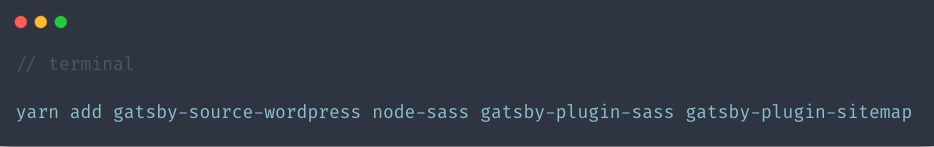
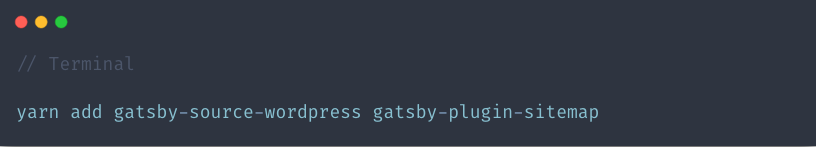
BLOG-027 Added third blog post

Changed region(s): [[0.0, 0.7075, 0.9804, 0.8435], [0.0, 0.381, 0.1532, 0.4898], [0.0, 0.1088, 0.0919, 0.1905]]

diff --git a/src/posts/how-to-build-a-blog-with-wordpress-and-gatsby-part-3/index.md b/src/posts/how-to-build-a-blog-with-wordpress-and-gatsby-part-3/index.md
@@ -1,0 +1,138 @@
+---
+title: 'How To Build A Blog with Wordpress and Gatsby.js - Part 3'
+date: '2019-04-02'
+tags: '#reactjs #wordpress'
+featured_image: ./featured_image.jpg
+keywords: 'react js, reactjs, javascript, wordpress, wordpress plugins, gatsbyjs, gatsby js'
+description: 'In the third part of this series about WordPress and Gatsby js, we will be creating pages using templates and components using data from WordPress.'
+---
+
+<article class="message">
+  <div class="message-body">
+    Note: This is part three in a series of posts about Gatsby.js and WordPress. You can find <a href="/blog/how-to-build-a-blog-with-wordpress-and-gatsby-part-1">Part One here</a>, and <a href="/blog/how-to-build-a-blog-with-wordpress-and-gatsby-part-2">Part Two here</a>.
+  </div>
+</article>
+
+In the third part of this series about WordPress and Gatsby js, we will be creating pages using templates and components using data from WordPress.
+
+So far, we've talked about what themes and plugins to use for a WordPress back-end and why. We have also created a new Gatsby js site and set it up to create routes for our blog posts programmatically. We will be using the same skills for some of the things in this post since we probably want to have a default template for our static pages. We will then create React js components in the `/pages` directory which will replace the default template for the desired pages, in this case our home page.
+
+## Creating a Page Template
+
+As you'll recall from the last post, we should create a page template before adding the `createPages` api to the gatsby-node.js file so it has something to call. To do this, we'll create a file in the pages directory called PageTemplate.js using the code below:
+
+![Create a file for the Page Template](./code1.png)
+
+Just like with the blog post template, we can probably just use a [stateless functional component](/blog/class-components-vs-stateless-functional-components/) for this. Like before, we won't cover how to create a component in this article, but you can read about [creating a react js component here](/blog/how-to-create-a-component/).
+
+We will go ahead and start off with a generic template again and then we will fill it out later with the appropriate data. The code below will get a simple template created for us to use for pages for now:
+
+![Basic page template code](./code2.png)
+
+## Adding pages to gatsby-node.js
+
+Awesome! Now that we have our page template created, we can add pages to the gatsby-node.js file pretty easily. First, we will import the template just like we did for the BlogPostTemplate. Then we will add the allWordpressPage piece to the graphql query. Finally, we will use the `createPage` api to create pages based on the information retrieved from the graphql query and use the Page template to build the pages automatically. Below is our finished gatsby-node.js file. See if you can spot the things I mentioned for the pages.
+
+![Finished gatsby-node.js file](./code3.png)
+
+Just like before, we can test this to make sure the pages were created as expected by starting our development server and visiting [localhost:8000/stuff](http://localhost:8000/stuff) and getting a list of all of the available pages. Again, this is only available in a development environment since a live site will show a different 404 page. We should see an `/about` page and a `/sample-page` page in there. If so, our gatsby-node.js file worked and we can update the template to show the data we want.
+
+![See a list of available pages](./gatsby1.png)
+
+## Updating the Page Template
+
+Since we have our page routes set up, we can start adding to the template. This will look very similar to the BlogPost.js file with only a few differences. In our blog, we aren't going to have a featured image for static pages, so we can go ahead and leave that piece out of the query. We also don't need a date or author for the pages since they don't change. Essentially all we'll need is a title and content along with an excerpt for the SEO component.
+
+The end result is a pretty simple component as shown below:
+
+![Finished Page Template](./code4.png)
+
+I mentioned at the end of [part two](/blog/how-to-build-a-blog-with-wordpress-and-gatsby-part-2) that configuring the gatsby-node.js file is probably the most difficult part of this whole thing. Since we worked our way through that already and understand how it works, setting up another content type was cake, right?
+
+<video autoplay muted loop width="400">
+  <source src="https://media.giphy.com/media/zcCGBRQshGdt6/giphy.mp4">
+</video>
+
+Now if we visit the about page at [http://localhost:8000/about](http://localhost:8000/about), we can see the data coming in from WordPress. If we inspect the page and look at the head, we can also see that the title and meta tags are being updated in the head because of the SEO component!
+
+## Creating Pages in the Pages Directory
+
+Gatsby js provides some awesome out-of-the-box routing. Anything we create in the `/pages` directory will automatically create a route for us. For instance, if we were to create a file called `gatsby-is-awesome.js`, Gatsby js would see that and create a route called http://localhost:8000/gatsby-is-awesome.
+
+We can also see that the starter default comes with a few pages already in the `/pages` directory. The index page is what will show when a user visits [http://localhost:8000/](http://localhost:8000/). There is also a file called page-2.js which is just a simple page to show how linking works. Finally, there is a 404.js available which is the 404 page that shows when our gatsby js site is live.
+
+Since we want our blog to show up on the homepage, we can edit the file called `index.js` to do this. Let's take a look at this file before we make any changes:
+
+![Index.js file before we make changes](./code5.png)
+
+We are going to remove everything after the SEO tag but before the closing Layout tag and replace it with our own stuff. We can also use a query pretty similar to the one in the blog post template except for the content piece. We can just use the excerpt provided by the WordPress API.
+
+To keep things simple, we'll just create a list of recent blog posts with an image, title, author, date, and excerpt. Each of the items in this list should link to the individual blog post for readers. Below is the code to create this layout. It's pretty straightforward and looks very similar to our blog post template with the exception of the map function which iterates over the items in an array.
+
+![Our finished index.js file](./code6.png)
+
+And here's what it looks like when we visit the homepage of our blog:
+
+![Finished blog home page](./gatsby2.png)
+
+It's looking pretty good so far. We're getting pretty close to being done, we just have a few more things to change and we're ready to start blogging!
+
+<video autoplay muted loop>
+  <source src="https://media.giphy.com/media/qLWdMYX1NYF2g/giphy.mp4">
+</video>
+
+## Changing the Header Component
+
+One of the first things I notice about the blog pictured above is the header. It doesn't look bad, but we probably don't want our blog to say "Gatsby Default Starter". There are a few ways we can change this, which we'll go over real quick.
+
+### In the Gatsby-Config.js File
+
+In the gatsby-config.js file, we can see a piece at the top called `siteMetaData` with a title, description, and author. This is where some basic information is kept about the project for the SEO component, but also for the site name.
+
+![siteMetaData available in the gatsby-config.js file](./code7.png)
+
+The title we're seeing in the header comes from the title listed here. We can change it to whatever we'd like our site to be called. Usually when building a WordPress site, I get all of my data for this from WordPress but in the case of a site using markdown or something different we may want to use the stuff located here.
+
+### In the Header Component
+
+Since we are building a blog using WordPress and want our users to have full control over the data, we should get our site name from WordPress so if it ever changes the user can update it. Fortunately, WordPress makes this available to us through the API, so we can query it in graphql like so:
+
+![Graphql query to get siteName from WordPress](./gatsby3.png)
+
+Using queries works a bit differently inside of components. Rather than just writing a query which drops data into our page or template, we have to use a new component called `StaticQuery` which is designed specifically for using queries inside of components.
+
+![Header component before modifications](./code8.png)
+
+If we take a quick look at the existing header component, we will see that a site-title is being passed in as a prop which is then used to display the site title from `gatsby-config.js` in the header. What we are going to do is use the `StaticQuery` component provided by gatsby and use a query prop to run our query and then a render prop to actually render out our component like we normally would. You can see below how we do this in code:
+
+![Header component after adding WordPress title](./code9.png)
+
+The header component above looks a little different than it originally did, but as we start to dig into it a bit more we can see it hasn't changed much. We essentially just wrapped our header in the StaticQuery component and then ran our query inside of that component to give the header the necessary data. Simple, right?
+
+![Our Gatsby js blog after updating the header component](./gatsby4.png)
+
+### Adding a Menu to the Header
+
+Let's take it a step further and say our user wants a menu in the header that he or she can update from WordPress. If you'll recall in the [first part of this series](/blog/how-to-build-a-blog-with-wordpress-and-gatsby-part-1), I mentioned a plugin called WP API Menus which will make our menus available in the Rest API.
+
+When we were setting our gatsby-config.js file in the [second part of the series](/blog/how-to-build-a-blog-with-wordpress-and-gatsby-part-2), we just stuck with the default routes provided in the gatsby-source-wordpress docs. The WP API Menus plugin creates a few new routes for those endpoints, so the first thing we need to do is add these endpoints to the gatsby-config.js file.
+
+![Gatsby-config.js after adding routes for menus](./code10.png)
+
+If you look at the code above, you'll notice we have added two new routes to the gatsby-source-wordpress. These routes are created automatically by the plugin inside of WordPress without any additional configuration. Remember, after making changes to files outside of the src folder, we need to restart our development server by running `gatsby develop`. After restarting, we can visit [http://localhost:8000/\_\_\_graphql](http://localhost:8000/___graphql) and query for the menu information, which will like like the screenshot below.
+
+![GraphiQL query to get menu items from WordPress](./gatsby6.png)
+
+The final step is to add this query into our static query and create the menu itself in the header component. We can just drop this in under the wordpressSiteMetadata piece. Once we have it added into the query, we can just use a `map()` function to iterate over the menu items and create it dynamically, allowing the user to update it through WordPress. Doing it this way does require us to specify which menu we want, so we need the name of the menu which is set in WordPress. In this case, our menu is called Main Menu so we will use that in our query.
+
+![Finished header component with main menu](./code11.png)
+
+That's a good looking component! Let's see what it looks like when we visit the site:
+
+![Blog after adding menu to header](./gatsby7.png)
+
+## Wrapping up
+
+Well done! We now have a functioning blog using WordPress and Gatsby js. There are more things we can do to add custom functionality such as custom post types, galleries, and more, but this is enough to get us started for now. As we've seen, it's pretty simple to get up and running with this stack. It's the best of both worlds since clients and users get the awesome experience of content creating with WordPress and as developers we can leverage the awesome capabilities of Gatsby js. As usual, go forth and make the internet a better place to be!
+
+If you have any thoughts or questions, you can find me on twitter at [@iam_timsmith](https://twitter.com/iam_timsmith)!

diff --git a/src/posts/how-to-build-a-blog-with-wordpress-and-gatsby-part-2/index.md b/src/posts/how-to-build-a-blog-with-wordpress-and-gatsby-part-2/index.md
@@ -9,7 +9,7 @@ description: 'In the last post, we covered setting up WordPress for use with Gat
 
 <article class="message">
   <div class="message-body">
-    Note: This is part two in a series of posts about Gatsby.js and WordPress. You can find <a href="/blog/how-to-build-a-blog-with-wordpress-and-gatsby-part-1">Part One here</a>.
+    Note: This is part two in a series of posts about Gatsby.js and WordPress. You can find <a href="/blog/how-to-build-a-blog-with-wordpress-and-gatsby-part-1">Part One here</a>, and <a href="/blog/how-to-build-a-blog-with-wordpress-and-gatsby-part-3">Part Three here</a>.
   </div>
 </article>
 
@@ -80,7 +80,7 @@ The site provides a navbar with a link going back to the homepage. There is also
 
 ## Adding Gatsby js Plugins
 
-Now that we know what's already installed and what it looks like to start, we can add the stuff we need to use WordPress with our site. Fortunately for us, Gatsby has a page on their site where you can [see what plugins are available](https://www.gatsbyjs.org/plugins/). We will be adding the following plugins to our site: [Gatsby-Source-WordPress](https://www.gatsbyjs.org/packages/gatsby-source-wordpress/), [Gatsby-Plugin-Sass](https://www.gatsbyjs.org/packages/gatsby-plugin-sass/), and [Gatsby-Plugin-Sitemap](https://www.gatsbyjs.org/packages/gatsby-plugin-sitemap/).
+Now that we know what's already installed and what it looks like to start, we can add the stuff we need to use WordPress with our site. Fortunately for us, Gatsby has a page on their site where you can [see what plugins are available](https://www.gatsbyjs.org/plugins/). We will be adding the following plugins to our site: [Gatsby-Source-WordPress](https://www.gatsbyjs.org/packages/gatsby-source-wordpress/) and [Gatsby-Plugin-Sitemap](https://www.gatsbyjs.org/packages/gatsby-plugin-sitemap/).
 
 To do this, we can use this code in the terminal:
 ![Adding packages for WordPress](./code5.png)
@@ -163,4 +163,4 @@ We're about half-way done with the actual Gatsby js build. In this post we cover
 
 The code for this tutorial can be found [here](https://github.com/iamtimsmith/building-a-blog-with-wordpress-and-gatsby)
 
-<!-- See you in [How To Build A Blog with Wordpress and Gatsby.js - Part 3](/blog/how-to-build-a-blog-with-wordpress-and-gatsby-part-3)! -->
+See you in [How To Build A Blog with Wordpress and Gatsby.js - Part 3](/blog/how-to-build-a-blog-with-wordpress-and-gatsby-part-3)!

diff --git a/src/posts/how-to-build-a-blog-with-wordpress-and-gatsby-part-1/index.md b/src/posts/how-to-build-a-blog-with-wordpress-and-gatsby-part-1/index.md
@@ -9,7 +9,7 @@ description: 'Ever wondered how to use Gatsby js with WordPress? This post will 
 
 <article class="message">
   <div class="message-body">
-    Note: This is part one in a series of posts about Gatsby.js and WordPress. You can find <a href="/blog/how-to-build-a-blog-with-wordpress-and-gatsby-part-2">Part Two here</a>.
+    Note: This is part one in a series of posts about Gatsby.js and WordPress. You can find <a href="/blog/how-to-build-a-blog-with-wordpress-and-gatsby-part-2">Part Two here</a>, and <a href="/blog/how-to-build-a-blog-with-wordpress-and-gatsby-part-3">Part Three here</a>.
   </div>
 </article>
 
